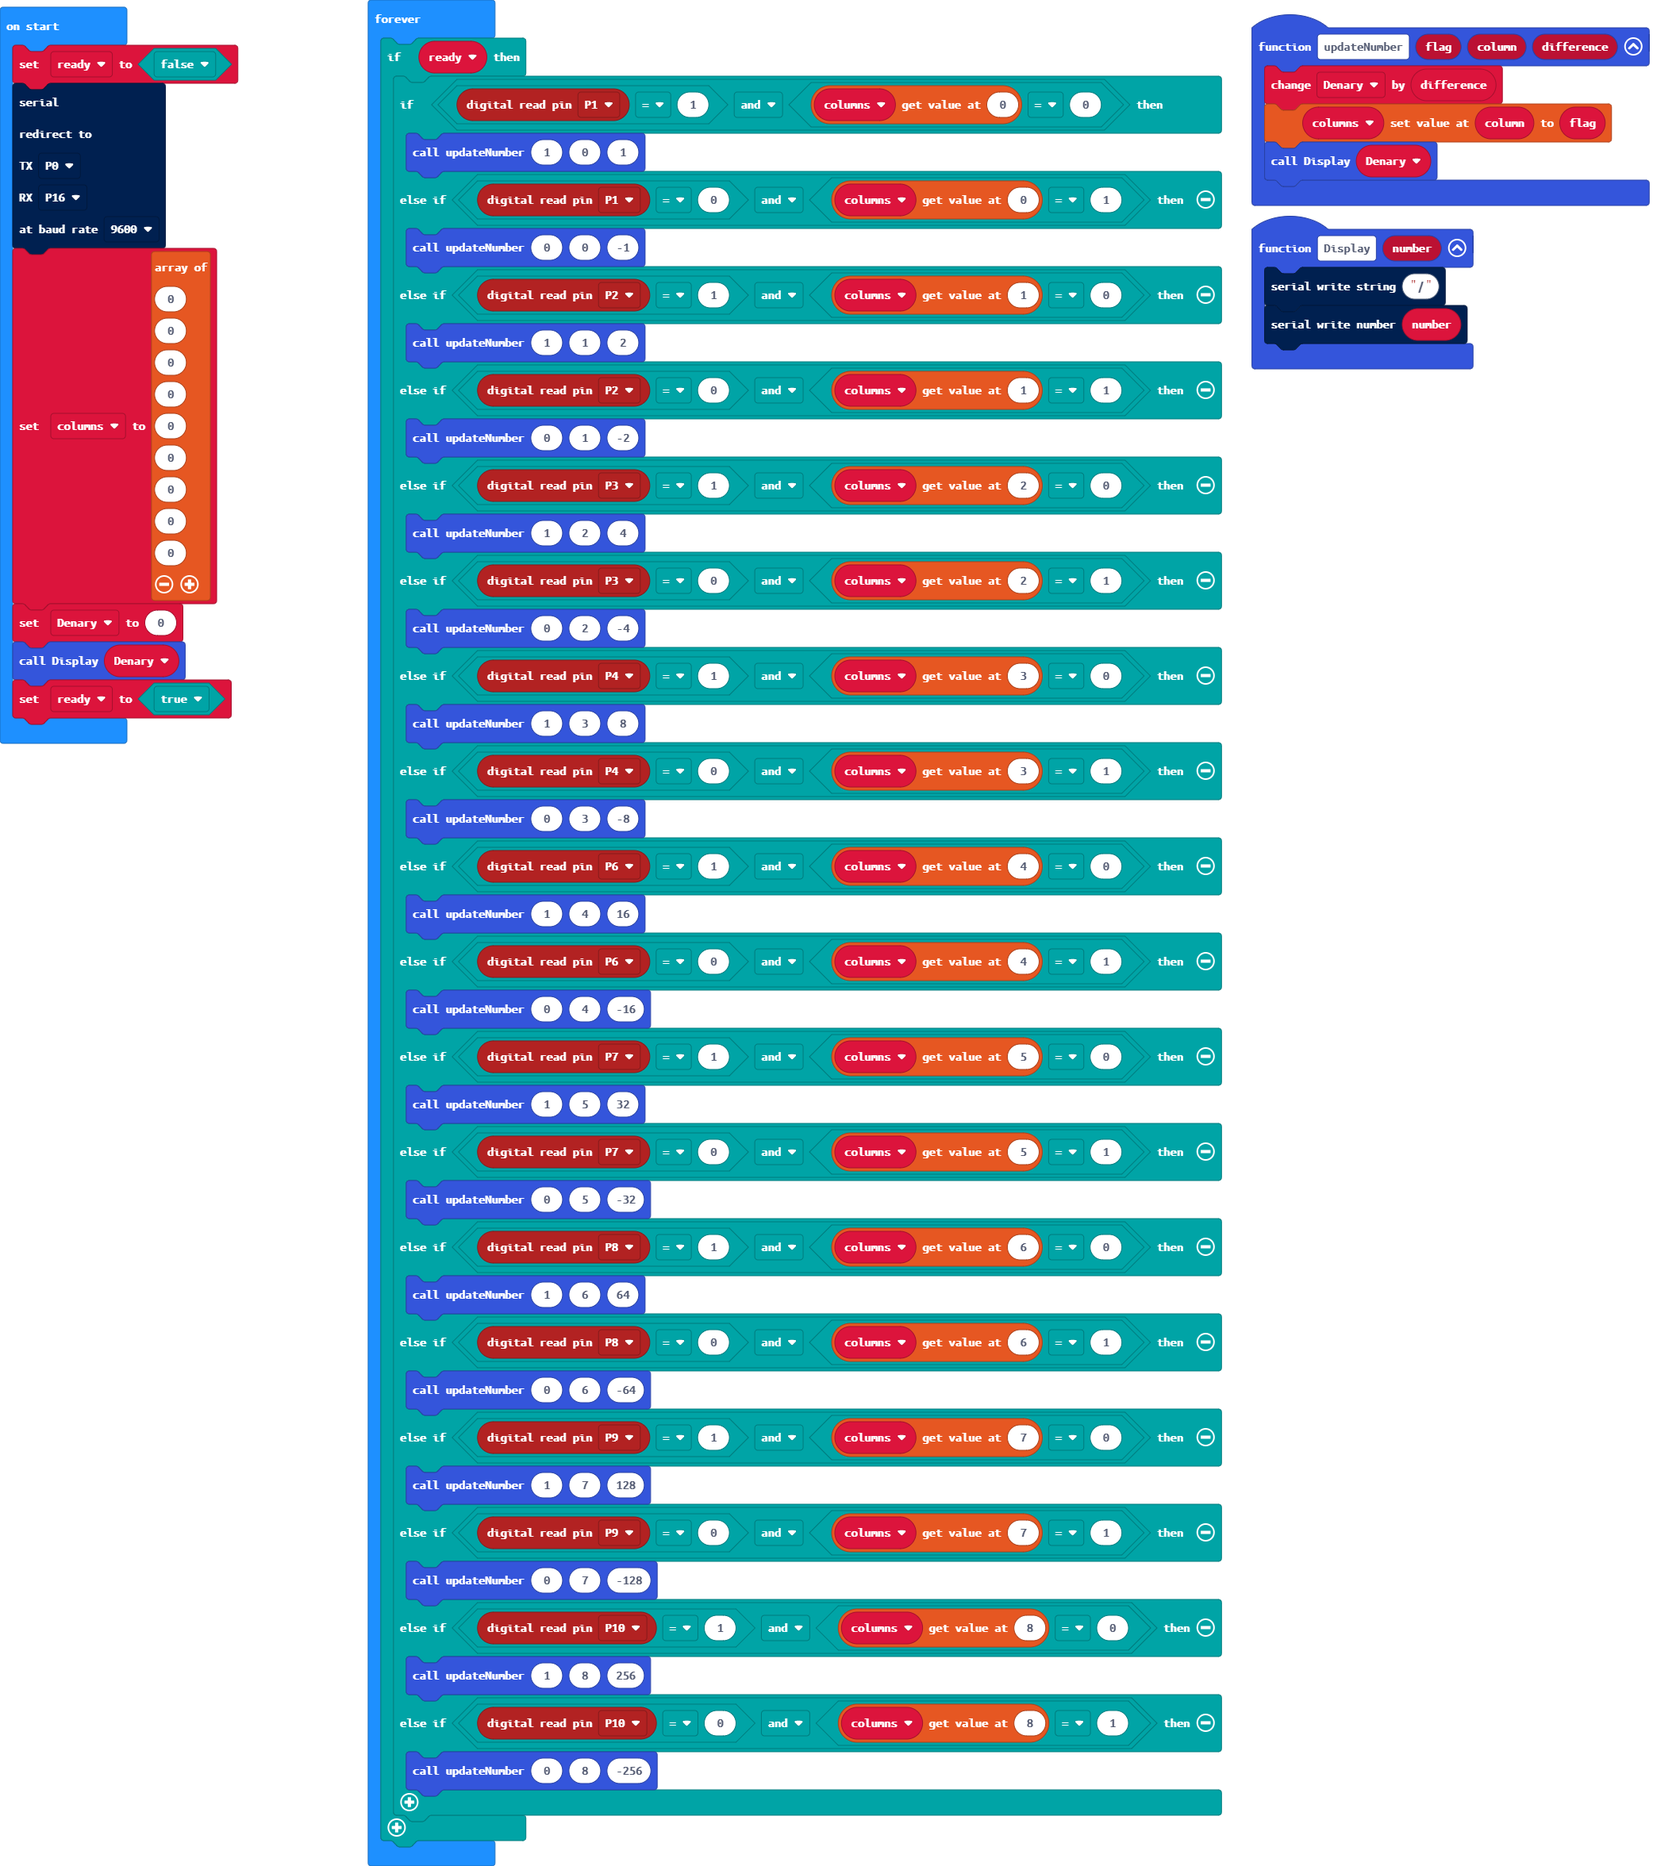
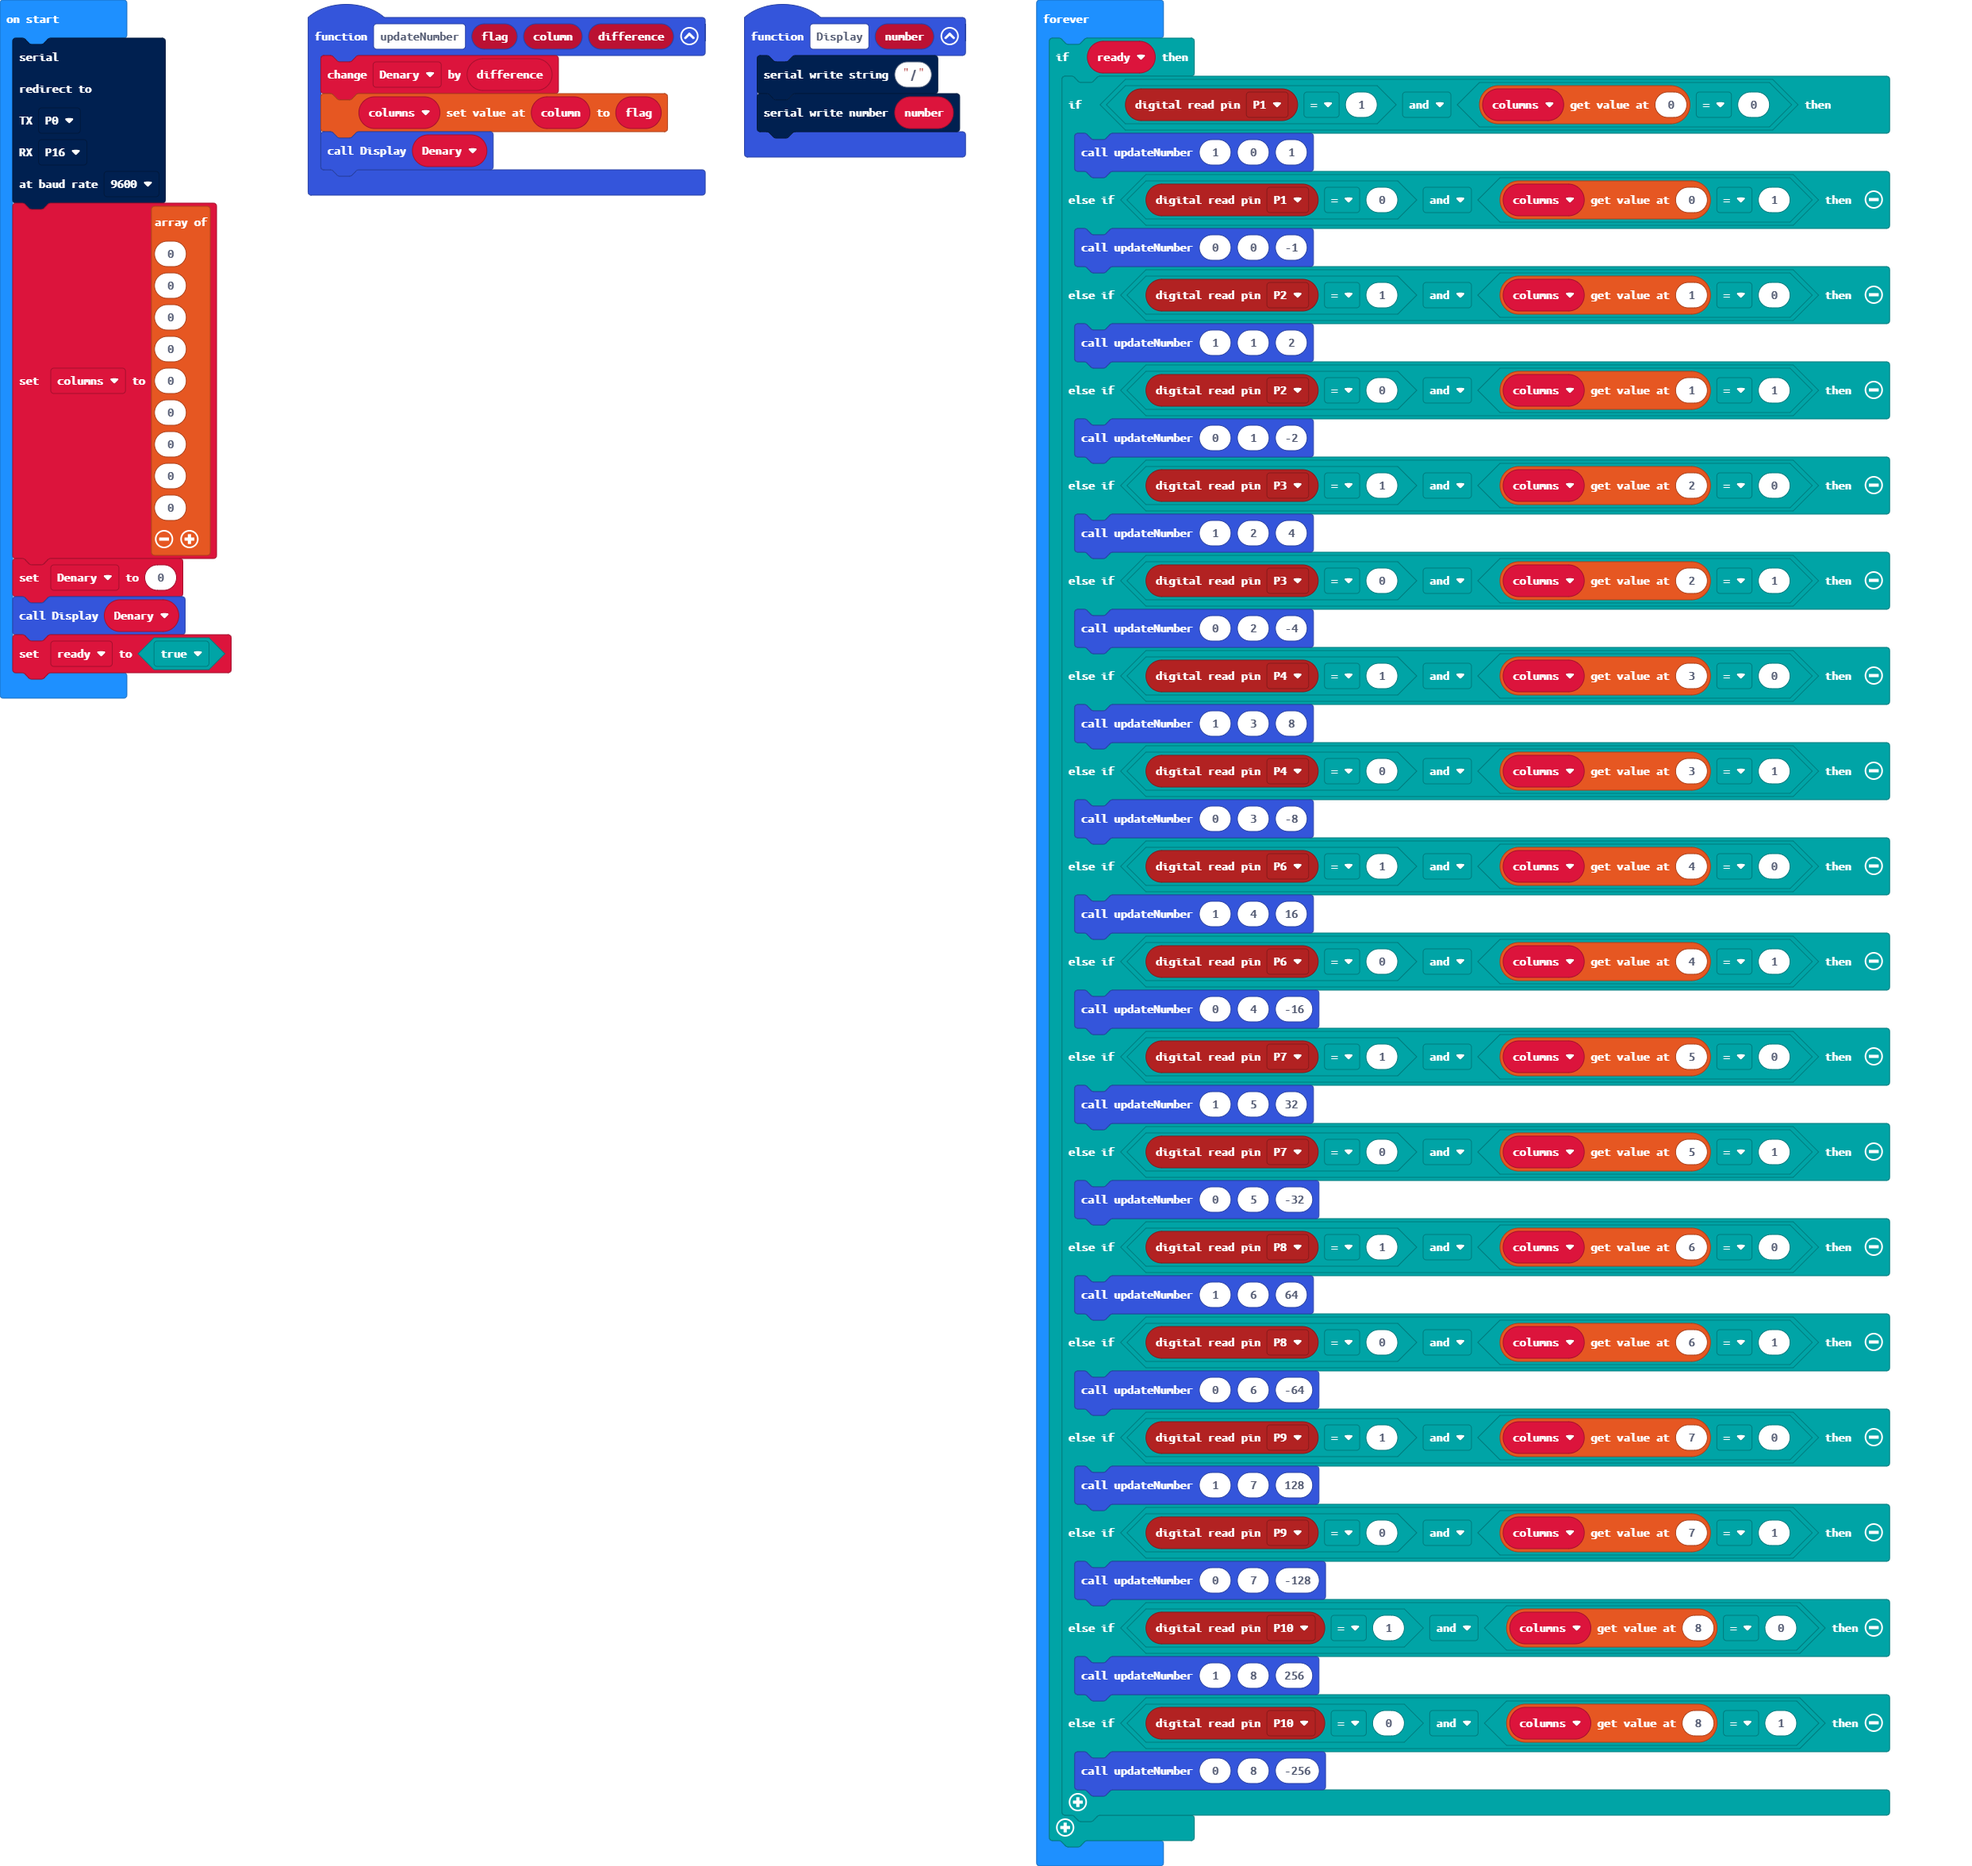
Restore '19/06/2021, 17:28:49 1.0.0'

diff --git a/main.ts b/main.ts
@@ -1,25 +1,23 @@
-function updateNumber (flag: number, column: number, difference: number) {
+function updateNumber(flag: number, column: number, difference: number) {
+    
     Denary += difference
     columns[column] = flag
     Display(Denary)
 }
-function Display (number: number) {
+
+function Display(number: number) {
     serial.writeString("/")
     serial.writeNumber(number)
 }
+
 let Denary = 0
-let columns: number[] = []
-let ready = false
-serial.redirect(
-SerialPin.P0,
-SerialPin.P16,
-BaudRate.BaudRate9600
-)
+let columns : number[] = []
+serial.redirect(SerialPin.P0, SerialPin.P16, BaudRate.BaudRate9600)
 columns = [0, 0, 0, 0, 0, 0, 0, 0, 0]
 Denary = 0
 Display(Denary)
-ready = true
-basic.forever(function () {
+let ready = true
+basic.forever(function on_forever() {
     if (ready) {
         if (pins.digitalReadPin(DigitalPin.P1) == 1 && columns[0] == 0) {
             updateNumber(1, 0, 1)
@@ -58,5 +56,7 @@ basic.forever(function () {
         } else if (pins.digitalReadPin(DigitalPin.P10) == 0 && columns[8] == 1) {
             updateNumber(0, 8, -256)
         }
+        
     }
+    
 })

diff --git a/main.py b/main.py
@@ -1,91 +1,55 @@
-def changes2(difference: number, flag: number):
+def updateNumber(flag: number, column: number, difference: number):
     global Denary
     Denary += difference
-    Display(Denary)
-def changes4(difference: number, flag: number):
-    global Denary
-    Denary += difference
-    column4 = flag
-    Display(Denary)
-def changes128(difference: number, flag: number):
-    global Denary
-    Denary += difference
-    column128 = flag
+    columns[column] = flag
     Display(Denary)
 def Display(number: number):
     serial.write_string("/")
     serial.write_number(number)
-def changes256(difference: number, flag: number):
-    global Denary
-    Denary += difference
-    column256 = flag
-    Display(Denary)
-def changes1(difference: number, flag: number):
-    global Denary
-    Denary += difference
-    column1 = flag
-    Display(Denary)
-def changes16(difference: number, flag: number):
-    global Denary
-    Denary += difference
-    column16 = flag
-    Display(Denary)
-def changes32(difference: number, flag: number):
-    global Denary
-    Denary += difference
-    column32 = flag
-    Display(Denary)
-def changes64(difference: number, flag: number):
-    global Denary
-    Denary += difference
-    column64 = flag
-    Display(Denary)
-def changes8(difference: number, flag: number):
-    global Denary
-    Denary += difference
-    column8 = flag
-    Display(Denary)
 Denary = 0
+columns: List[number] = []
 serial.redirect(SerialPin.P0, SerialPin.P16, BaudRate.BAUD_RATE9600)
 columns = [0, 0, 0, 0, 0, 0, 0, 0, 0]
 Denary = 0
 Display(Denary)
+ready = True
 
 def on_forever():
-    if pins.digital_read_pin(DigitalPin.P1) == 1 and columns[0] == 0:
-        changes1(1, 1)
-    elif pins.digital_read_pin(DigitalPin.P1) == 0 and columns[0] == 1:
-        changes1(-1, 0)
-    elif pins.digital_read_pin(DigitalPin.P2) == 1 and columns[1] == 0:
-        changes2(2, 1)
-    elif pins.digital_read_pin(DigitalPin.P2) == 0 and columns[1] == 1:
-        changes2(-2, 0)
-    elif pins.digital_read_pin(DigitalPin.P3) == 1 and columns[2] == 0:
-        changes4(4, 1)
-    elif pins.digital_read_pin(DigitalPin.P3) == 0 and columns[2] == 1:
-        changes4(-4, 0)
-    elif pins.digital_read_pin(DigitalPin.P4) == 1 and columns[3] == 0:
-        changes8(8, 1)
-    elif pins.digital_read_pin(DigitalPin.P4) == 0 and columns[3] == 1:
-        changes8(-8, 0)
-    elif pins.digital_read_pin(DigitalPin.P6) == 1 and columns[4] == 0:
-        changes16(16, 1)
-    elif pins.digital_read_pin(DigitalPin.P6) == 0 and columns[4] == 1:
-        changes16(-16, 0)
-    elif pins.digital_read_pin(DigitalPin.P7) == 1 and columns[5] == 0:
-        changes32(32, 1)
-    elif pins.digital_read_pin(DigitalPin.P7) == 0 and columns[5] == 1:
-        changes32(-32, 0)
-    elif pins.digital_read_pin(DigitalPin.P8) == 1 and columns[6] == 0:
-        changes64(64, 1)
-    elif pins.digital_read_pin(DigitalPin.P8) == 0 and columns[6] == 1:
-        changes64(-64, 0)
-    elif pins.digital_read_pin(DigitalPin.P9) == 1 and columns[7] == 0:
-        changes128(128, 1)
-    elif pins.digital_read_pin(DigitalPin.P9) == 0 and columns[7] == 1:
-        changes128(-128, 0)
-    elif pins.digital_read_pin(DigitalPin.P10) == 1 and columns[8] == 0:
-        changes256(256, 1)
-    elif pins.digital_read_pin(DigitalPin.P10) == 0 and columns[0] == 1:
-        changes256(-256, 0)
+    if ready:
+        if pins.digital_read_pin(DigitalPin.P1) == 1 and columns[0] == 0:
+            updateNumber(1, 0, 1)
+        elif pins.digital_read_pin(DigitalPin.P1) == 0 and columns[0] == 1:
+            updateNumber(0, 0, -1)
+        elif pins.digital_read_pin(DigitalPin.P2) == 1 and columns[1] == 0:
+            updateNumber(1, 1, 2)
+        elif pins.digital_read_pin(DigitalPin.P2) == 0 and columns[1] == 1:
+            updateNumber(0, 1, -2)
+        elif pins.digital_read_pin(DigitalPin.P3) == 1 and columns[2] == 0:
+            updateNumber(1, 2, 4)
+        elif pins.digital_read_pin(DigitalPin.P3) == 0 and columns[2] == 1:
+            updateNumber(0, 2, -4)
+        elif pins.digital_read_pin(DigitalPin.P4) == 1 and columns[3] == 0:
+            updateNumber(1, 3, 8)
+        elif pins.digital_read_pin(DigitalPin.P4) == 0 and columns[3] == 1:
+            updateNumber(0, 3, -8)
+        elif pins.digital_read_pin(DigitalPin.P6) == 1 and columns[4] == 0:
+            updateNumber(1, 4, 16)
+        elif pins.digital_read_pin(DigitalPin.P6) == 0 and columns[4] == 1:
+            updateNumber(0, 4, -16)
+        elif pins.digital_read_pin(DigitalPin.P7) == 1 and columns[5] == 0:
+            updateNumber(1, 5, 32)
+        elif pins.digital_read_pin(DigitalPin.P7) == 0 and columns[5] == 1:
+            updateNumber(0, 5, -32)
+        elif pins.digital_read_pin(DigitalPin.P8) == 1 and columns[6] == 0:
+            updateNumber(1, 6, 64)
+        elif pins.digital_read_pin(DigitalPin.P8) == 0 and columns[6] == 1:
+            updateNumber(0, 6, -64)
+        elif pins.digital_read_pin(DigitalPin.P9) == 1 and columns[7] == 0:
+            updateNumber(1, 7, 128)
+        elif pins.digital_read_pin(DigitalPin.P9) == 0 and columns[7] == 1:
+            updateNumber(0, 7, -128)
+        elif pins.digital_read_pin(DigitalPin.P10) == 1 and columns[8] == 0:
+            updateNumber(1, 8, 256)
+        elif pins.digital_read_pin(DigitalPin.P10) == 0 and columns[8] == 1:
+            updateNumber(0, 8, -256)
 basic.forever(on_forever)
